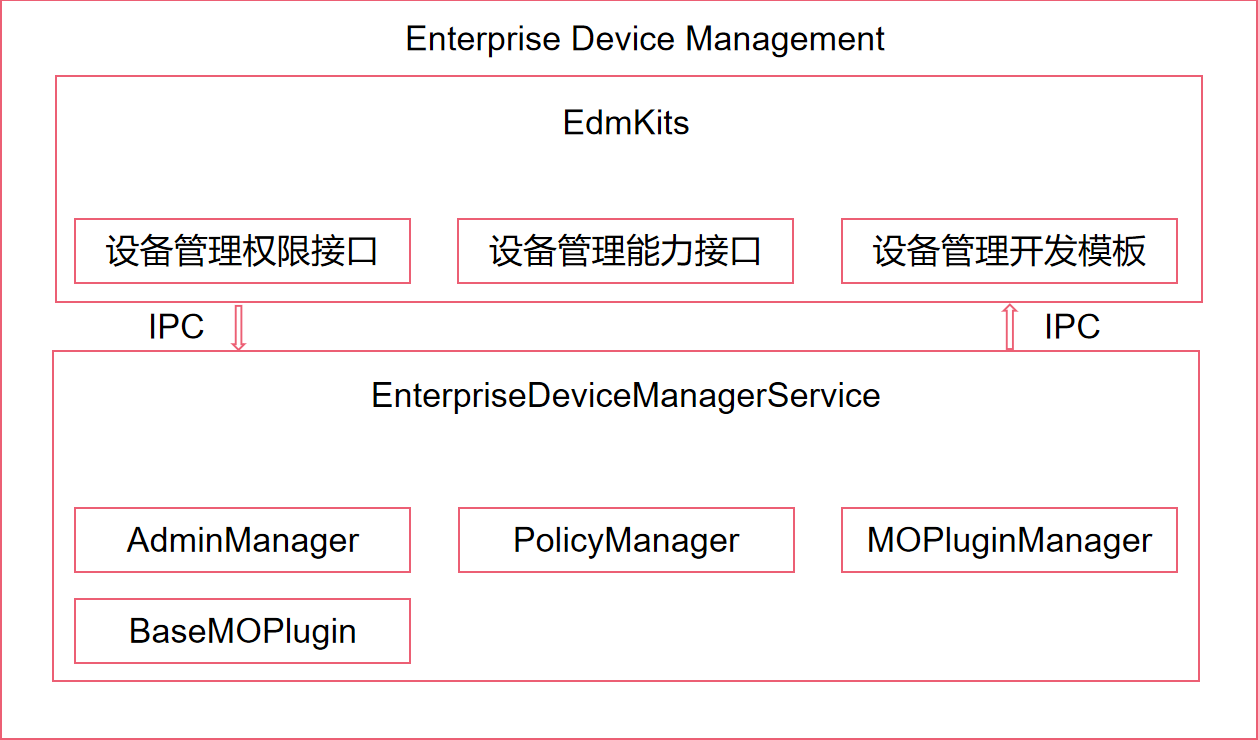
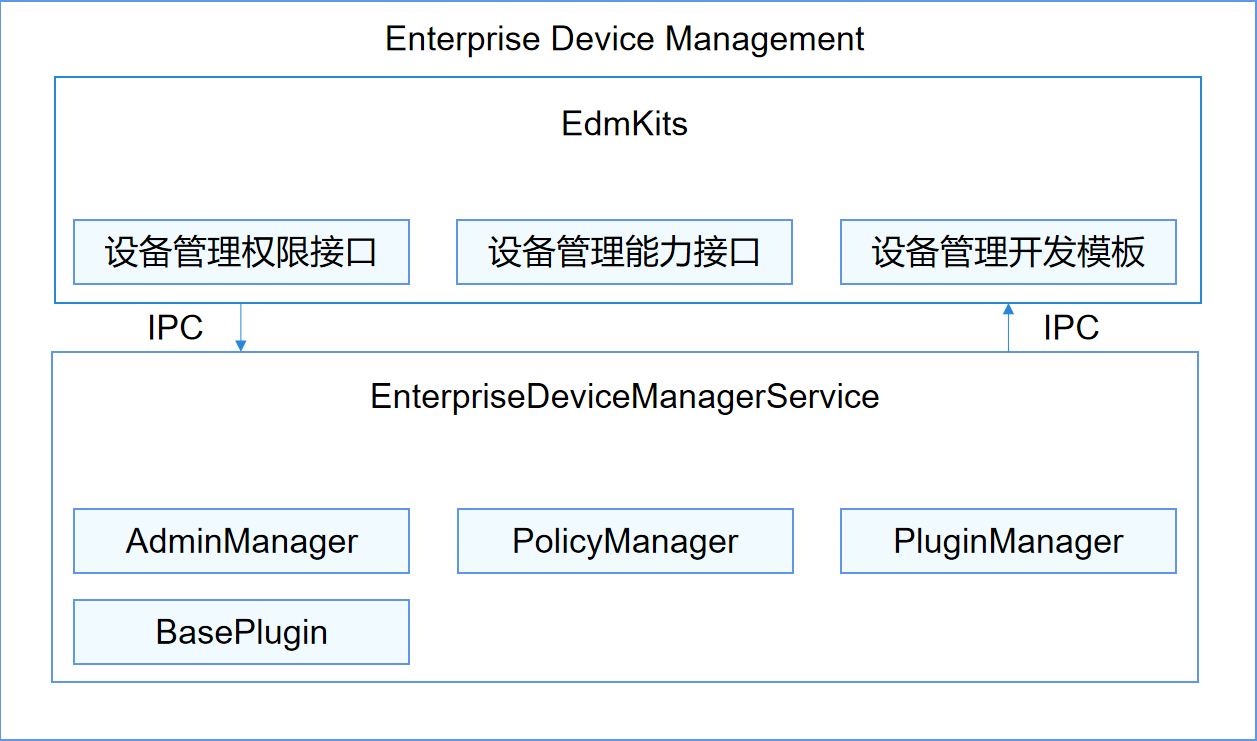
close https://gitee.com/openharmony-sig/customization_enterprise_device_management/issues/I4W9QU?from=project-issue

diff --git a/README_zh.md b/README_zh.md
@@ -2,11 +2,13 @@
 
 ## 简介
 
-**企业设备管理组件**为企业环境下的应用提供系统级别的管理功能API。
+企业设备管理组件为企业环境下的应用提供系统级别的管理功能API。
 
-企业设备管理组件架构如下图所示：
+## 系统架构
 
-![](figure/enterprise_device_management.png)
+**图 1**  企业设备管理组件架构图 
+
+![](figure\enterprise_device_management.png)
 
 ## 目录
 
